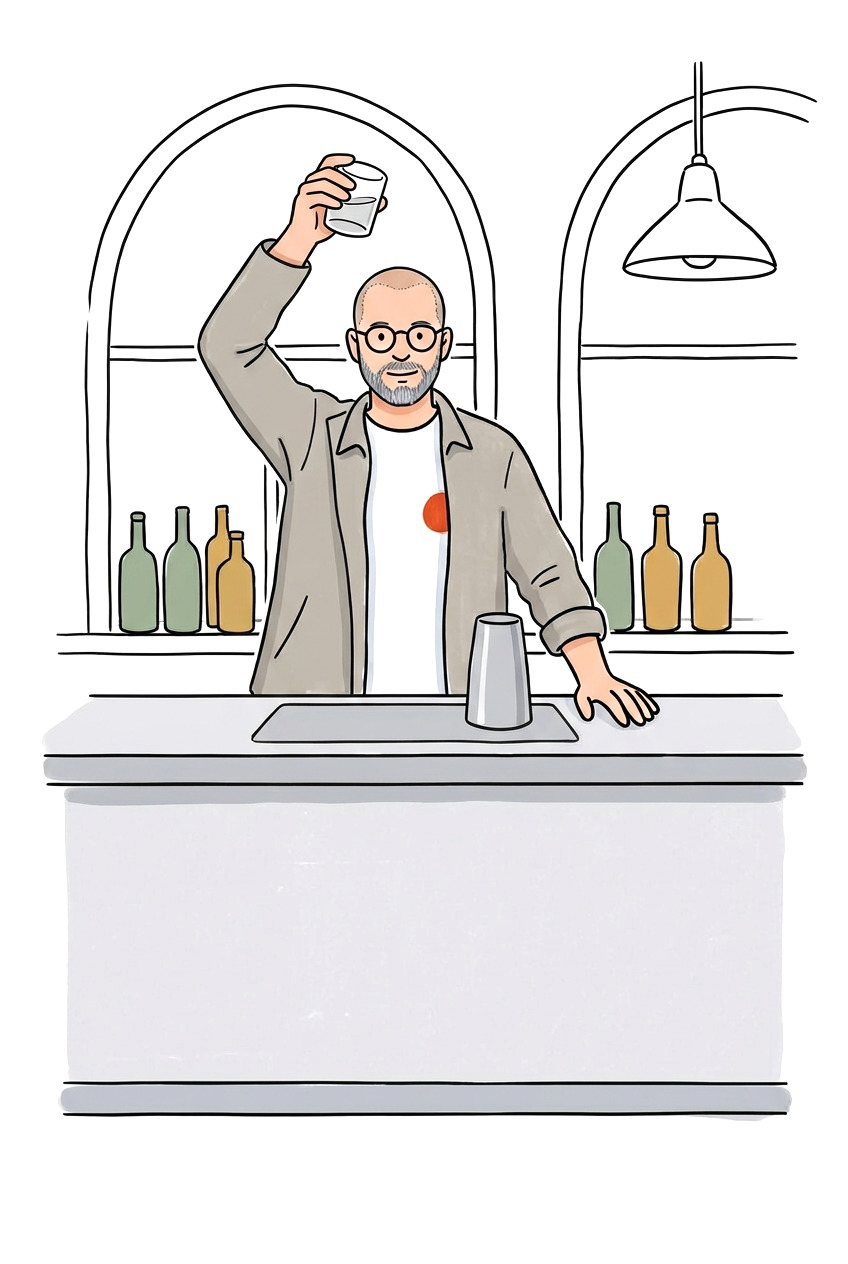
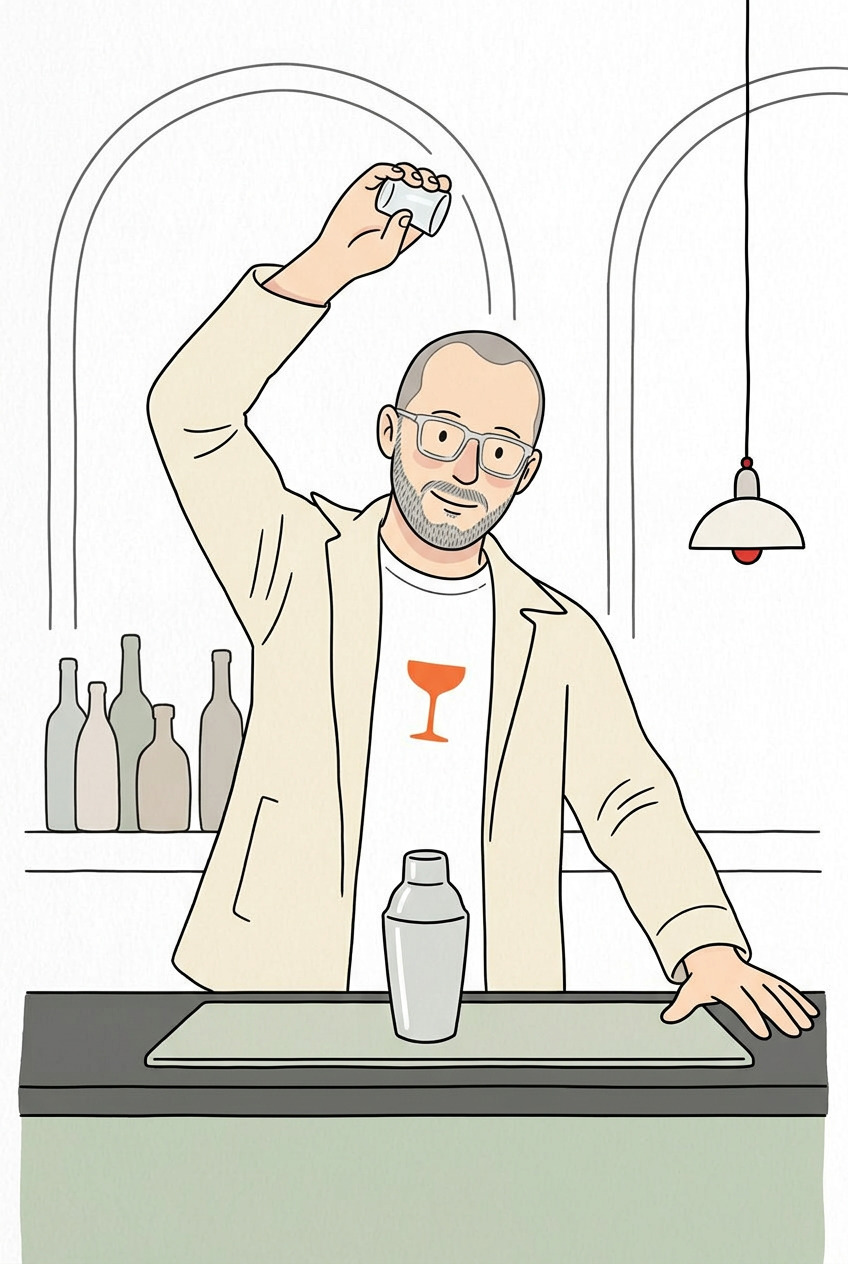
Redraw Zarkov and Talalay from their photographs
Zarkov: long dark hair, trimmed beard, white sweatshirt and baggy navy
trousers in the boxy white armchair, the pale blue screen behind him.
Talalay: close-shaved head, grey beard, spectacles, open overshirt over the
coupe-print tee, the raised arm holding the measure, and a counter that
finally has a dark top instead of a blank white block.

The paper tool now refuses to treat a dark drawing's brightest area as
paper, so it stops trying to lift the El Copitas and Sensory cards and is
idempotent again.

diff --git a/tools/normalize-artwork-paper.js b/tools/normalize-artwork-paper.js
@@ -40,6 +40,14 @@ const MAX_GAIN = 1.16;
  *  second run reports nothing to do. Real off-white paper (208 to 250) is still
  *  lifted. */
 const MIN_GAIN = 1.012;
+/** A file only counts as papered if its brightest cluster is genuinely
+ *  near-white and neutral. A dark drawing — the El Copitas room, the Sensory
+ *  card — has no paper at all, and its brightest area is an amber niche or a
+ *  lit board: lifting that would bleach the picture and never converge, because
+ *  the gain needed is past MAX_GAIN. Both tests are what keep the tool a no-op
+ *  on dark art. */
+const PAPER_MIN_LUMA = 220;
+const PAPER_MAX_SPREAD = 18;
 
 function luminanceHistogram(data, channels) {
   const hist = new Uint32Array(256);
@@ -87,6 +95,13 @@ async function normaliseFile(sharp, file) {
   const hist = luminanceHistogram(data, channels);
   const floor = percentileLevel(hist, pixels, PAPER_PERCENTILE);
   const paper = paperColour(data, channels, floor);
+
+  const darkest = Math.min(...paper);
+  const spread = Math.max(...paper) - darkest;
+  if (darkest < PAPER_MIN_LUMA || spread > PAPER_MAX_SPREAD) {
+    // no paper in this drawing: leave the colours the artist chose alone
+    return { file, changed: false, paper, gains: [1, 1, 1], noPaper: true };
+  }
 
   const gains = paper.map(value => Math.min(MAX_GAIN, 255 / Math.max(value, 1)));
   const worst = Math.max(...gains);

diff --git a/presentation/build/illustration-audit.md b/presentation/build/illustration-audit.md
@@ -427,6 +427,11 @@ that is now right (El Copitas in the cases, Redzepi's wardrobe, Narzi's dark hai
    again (near-black teal ground, the neon-traced board on its pedestal, the glass with ice under the
    waterline, the three boards receding behind) and Dave Arnold has a real pour, a counter with an edge,
    hands that close round the tin and the coupe, and the long face and receding hairline of the photograph.
-3. Redraw the two ○ portraits (Zarkov, Talalay) from their photographs in Hand A.
+3. ~~Redraw the two ○ portraits (Zarkov, Talalay) from their photographs in Hand A~~ — done 29 October
+   2026. Zarkov: long dark hair to the shoulder, trimmed beard, white sweatshirt and baggy navy trousers in
+   the boxy white armchair, the screen panel pale blue, the bottle with its red cap on the floor. Talalay:
+   close-shaved head, grey beard, thin spectacles, open overshirt over the tee with the orange coupe print,
+   the raised arm holding the measure, the counter given a dark top and a pale front so it stops reading as
+   a blank white block.
 4. Repair the physics list in §10.4 file by file; `illo-m03`, `illo-m07`, `illo-m08`, `illo-m09` and
    `illo-m10` need only a support line, a table edge or one hand redrawn.

diff --git a/README.md b/README.md
@@ -262,7 +262,8 @@ judged by (obvious resemblance, one hand across the series) and names the four f
 four redrawn thin and light in the hand of their own set, and `illo-figure-kratena.jpg` re-framed from
 768 × 1376 to the series' 848 × 1264; (2) ~~the two case cards that still read as the wrong place — `illo-case-sensory-talalay.jpg` and
 `illo-case-dave-arnold.jpg`~~ — done 29 October 2026, both redrawn from their photographs in the case-card
-hand; (3) the two portraits that are still another person — `illo-figure-zarkov.jpg` and `illo-figure-talalay.jpg`; (4) the physics
+hand; (3) ~~the two portraits that are still another person — `illo-figure-zarkov.jpg` and
+`illo-figure-talalay.jpg`~~ — done 29 October 2026, both redrawn from their photographs; (4) the physics
 list in `presentation/build/illustration-audit.md` §10.4 — a support line or a hand each for
 `illo-m03-senses`, `illo-m07-fnb`, `illo-m08-venture`, `illo-m09-found`, `illo-m10-mockup`, the Jiro card
 and the Sips foreground; (5) one unifying pass over the line weight of the whole series once the list is
